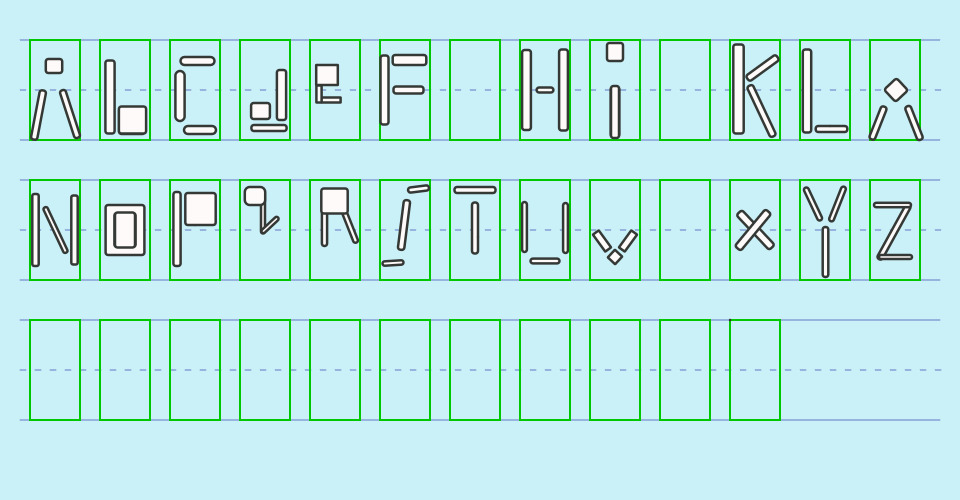
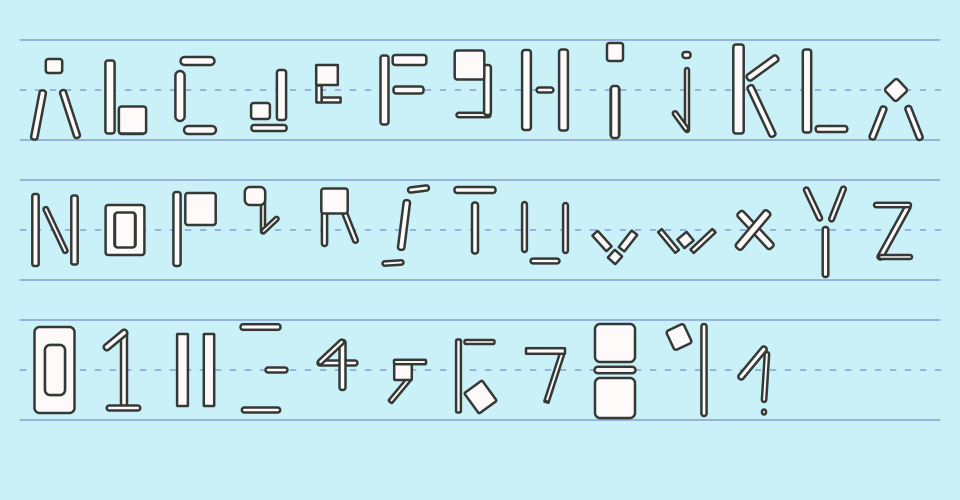
letter changes

diff --git a/letters.js b/letters.js
@@ -133,11 +133,22 @@ const alphabet = {
   "corners": 5
   },
   "G": {
-    "size": 50,
-    "offsetx": 15,
-    "offsety": 0,
-    "start": 0,
-    "stop":0
+    "Rect1x": 47,
+ "Rect1y": 150,
+ "Rect1h": 68,
+ "Rect1r": 270,
+ "Rect2x": 75,
+ "Rect2y": 100,
+ "Rect2h": 100,
+ "Rect2r": 180,
+ "Rect3x": 39,
+ "Rect3y": 50,
+ "Rect3h": 57.99999999999999,
+ "Rect3r": 180,
+ "width": 8.8,
+ "width2": 13.600000000000001,
+ "width3": 59.2,
+ "corners": 5
   },
   "H": {
     "Rect1x": 13,
@@ -176,11 +187,22 @@ const alphabet = {
   "corners": 4.8
   },
   "J": {
-    "size": 50,
-    "offsetx": 15,
-    "offsety": 0,
-    "start": 0,
-    "stop":0
+    "Rect1x": 54,
+  "Rect1y": 120,
+  "Rect1h": 128,
+  "Rect1r": 180,
+  "Rect2x": 41,
+  "Rect2y": 162,
+  "Rect2h": 46,
+  "Rect2r": 144,
+  "Rect3x": 53,
+  "Rect3y": 30,
+  "Rect3h": 12,
+  "Rect3r": 180,
+  "width": 8,
+  "width2": 8.8,
+  "width3": 16,
+  "corners": 5
   },
   "K": {
     "Rect1x": 63,
@@ -400,11 +422,22 @@ const alphabet = {
    "corners": 0.5
   },
   "W": {
-    "size": 50,
-    "offsetx": 15,
-    "offsety": 0,
-    "start": 0,
-    "stop":0
+    "Rect1x": 17,
+  "Rect1y": 122,
+  "Rect1h": 54,
+  "Rect1r": 140.4,
+  "Rect2x": 86,
+  "Rect2y": 122,
+  "Rect2h": 60,
+  "Rect2r": 226.8,
+  "Rect3x": 51,
+  "Rect3y": 120,
+  "Rect3h": 24,
+  "Rect3r": 50.400000000000006,
+  "width": 9.6,
+  "width2": 9.6,
+  "width3": 22.400000000000002,
+  "corners": 0.1
   },
   "X": {
     "Rect1x": 51,
@@ -461,54 +494,202 @@ const alphabet = {
   "corners": 5
   },
   "0": {
-    "size": 40,
-    "offsetx": 0,
-    "offsety": 17
+    "Rect1x": 49,
+  "Rect1y": 100,
+  "Rect1h": 172,
+  "Rect1r": 180,
+  "Rect2x": 50,
+  "Rect2y": 100,
+  "Rect2h": 100,
+  "Rect2r": 180,
+  "Rect3x": 50,
+  "Rect3y": 100,
+  "Rect3h": 100,
+  "Rect3r": 180,
+  "width": 80,
+  "width2": 40,
+  "width3": 40,
+  "corners": 10
   },
   "1": {
-    "size": 40,
-    "offsetx": 0,
-    "offsety": 17
+    "Rect1x": 48,
+  "Rect1y": 96,
+  "Rect1h": 152,
+  "Rect1r": 180,
+  "Rect2x": 47,
+  "Rect2y": 176,
+  "Rect2h": 10,
+  "Rect2r": 180,
+  "Rect3x": 31,
+  "Rect3y": 40,
+  "Rect3h": 12,
+  "Rect3r": 140.4,
+  "width": 12,
+  "width2": 67.2,
+  "width3": 56.8,
+  "corners": 5
   },
   "2": {
-    "size": 40,
-    "offsetx": 0,
-    "offsety": 17
+    "Rect1x": 25,
+ "Rect1y": 100,
+ "Rect1h": 144,
+ "Rect1r": 180,
+ "Rect2x": 78,
+ "Rect2y": 100,
+ "Rect2h": 144,
+ "Rect2r": 180,
+ "Rect3x": 68,
+ "Rect3y": 170,
+ "Rect3h": 0,
+ "Rect3r": 180,
+ "width": 21.6,
+ "width2": 20.8,
+ "width3": 0,
+ "corners": 0.7000000000000001
   },
   "3": {
-    "size": 40,
-    "offsetx": 0,
-    "offsety": 17
+    "Rect1x": 41,
+  "Rect1y": 14.000000000000002,
+  "Rect1h": 80,
+  "Rect1r": 270,
+  "Rect2x": 42,
+  "Rect2y": 180,
+  "Rect2h": 10,
+  "Rect2r": 180,
+  "Rect3x": 73,
+  "Rect3y": 100,
+  "Rect3h": 10,
+  "Rect3r": 180,
+  "width": 11.200000000000001,
+  "width2": 76.8,
+  "width3": 44,
+  "corners": 5
   },
   "4": {
-    "size": 40,
-    "offsetx": 0,
-    "offsety": 17
+    "Rect1x": 55.00000000000001,
+   "Rect1y": 86,
+   "Rect1h": 10,
+   "Rect1r": 180,
+   "Rect2x": 65,
+   "Rect2y": 90,
+   "Rect2h": 100,
+   "Rect2r": 180,
+   "Rect3x": 42,
+   "Rect3y": 64,
+   "Rect3h": 68,
+   "Rect3r": 226.8,
+   "width": 80,
+   "width2": 12,
+   "width3": 9.6,
+   "corners": 5
   },
   "5": {
-    "size": 40,
-    "offsetx": 0,
-    "offsety": 17
+    "Rect1x": 40,
+   "Rect1y": 140,
+   "Rect1h": 62,
+   "Rect1r": 219.6,
+   "Rect2x": 46,
+   "Rect2y": 104,
+   "Rect2h": 32,
+   "Rect2r": 180,
+   "Rect3x": 60,
+   "Rect3y": 84,
+   "Rect3h": 64,
+   "Rect3r": 270,
+   "width": 8.8,
+   "width2": 35.2,
+   "width3": 8.8,
+   "corners": 1.6
   },
   "6": {
-    "size": 40,
-    "offsetx": 0,
-    "offsety": 17
+    "Rect1x": 17,
+  "Rect1y": 112.00000000000001,
+  "Rect1h": 146,
+  "Rect1r": 180,
+  "Rect2x": 59,
+  "Rect2y": 44,
+  "Rect2h": 60,
+  "Rect2r": 270,
+  "Rect3x": 61,
+  "Rect3y": 154,
+  "Rect3h": 44,
+  "Rect3r": 54,
+  "width": 9.6,
+  "width2": 8,
+  "width3": 50.4,
+  "corners": 2.2
   },
   "7": {
-    "size": 40,
-    "offsetx": 0,
-    "offsety": 17
+    "Rect1x": 69,
+ "Rect1y": 113.99999999999999,
+ "Rect1h": 106,
+ "Rect1r": 198.00000000000003,
+ "Rect2x": 51,
+ "Rect2y": 62,
+ "Rect2h": 78,
+ "Rect2r": 270,
+ "Rect3x": 53,
+ "Rect3y": 162,
+ "Rect3h": 0,
+ "Rect3r": 180,
+ "width": 8.8,
+ "width2": 11.200000000000001,
+ "width3": 0,
+ "corners": 0.5
   },
   "8": {
-    "size": 40,
-    "offsetx": 0,
-    "offsety": 17
+    "Rect1x": 50,
+  "Rect1y": 46,
+  "Rect1h": 76,
+  "Rect1r": 180,
+  "Rect2x": 50,
+  "Rect2y": 100,
+  "Rect2h": 82,
+  "Rect2r": 270,
+  "Rect3x": 50,
+  "Rect3y": 156,
+  "Rect3h": 80,
+  "Rect3r": 180,
+  "width": 80,
+  "width2": 12.8,
+  "width3": 80,
+  "corners": 10
   },
   "9": {
-    "size": 40,
-    "offsetx": 0,
-    "offsety": 17
-  }
+    "Rect1x": 88,
+ "Rect1y": 100,
+ "Rect1h": 184,
+ "Rect1r": 180,
+ "Rect2x": 38,
+ "Rect2y": 34,
+ "Rect2h": 42,
+ "Rect2r": 154.8,
+ "Rect3x": 83,
+ "Rect3y": 188,
+ "Rect3h": 0,
+ "Rect3r": 180,
+ "width": 10.4,
+ "width2": 38.4,
+ "width3": 0,
+ "corners": 5
+},
+"?": {
+  "Rect1x": 45,
+  "Rect1y": 86,
+  "Rect1h": 82,
+  "Rect1r": 219.6,
+  "Rect2x": 71,
+  "Rect2y": 113.99999999999999,
+  "Rect2h": 100,
+  "Rect2r": 183.6,
+  "Rect3x": 68,
+  "Rect3y": 184,
+  "Rect3h": 10,
+  "Rect3r": 180,
+  "width": 11.200000000000001,
+  "width2": 8.8,
+  "width3": 8,
+  "corners": 5
+}
 
 }

diff --git a/README.md b/README.md
@@ -1,10 +1,7 @@
 ## MDDN 242 2022 Assignment 2
 
-## May 2nd
+## May 2nd part 2
 
-There have been many changes to the code.  I have added many parameters.
-The next steps will be to make the last 3 letters and the numbers.  Then it will be on to interpolation.
-I have used some of jeremymaih's code as a foundation for my letters.  Here is the link https://bl.ocks.org/jeremymaih/99e8644e3b6b4ec8ef263a254e0f017f/a389cc22435a93266aad7e4361f7d655367b045e
-
-The ideas and color scheme of my alphabet will be entirely different from jeremymaih's code.
-I am unsure if I should add another rectangle to make some letters more defined.
+  Finished J, g, and w.  Finished all the numbers and question mark.
+  They definitely need some refinement.  I have few ideas how to make the 0 and O look different.
+  I have an idea to make the M and A look different as well.
